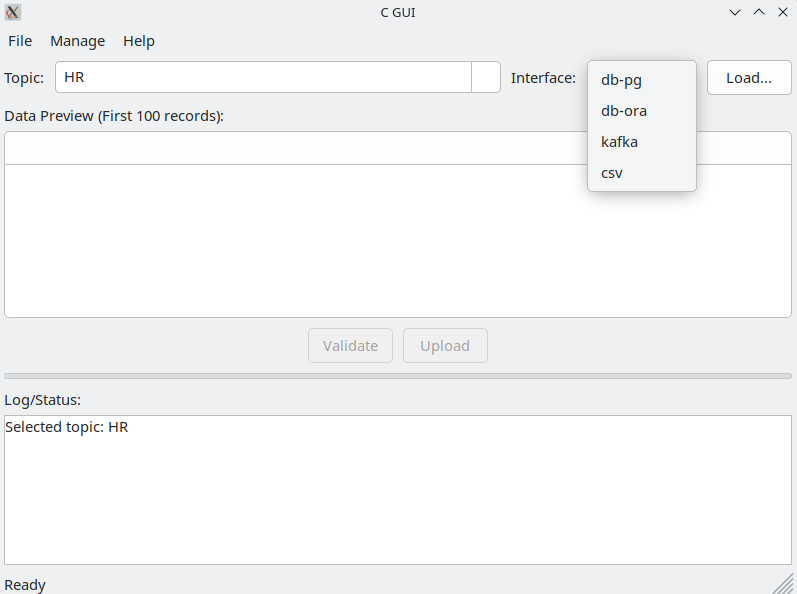
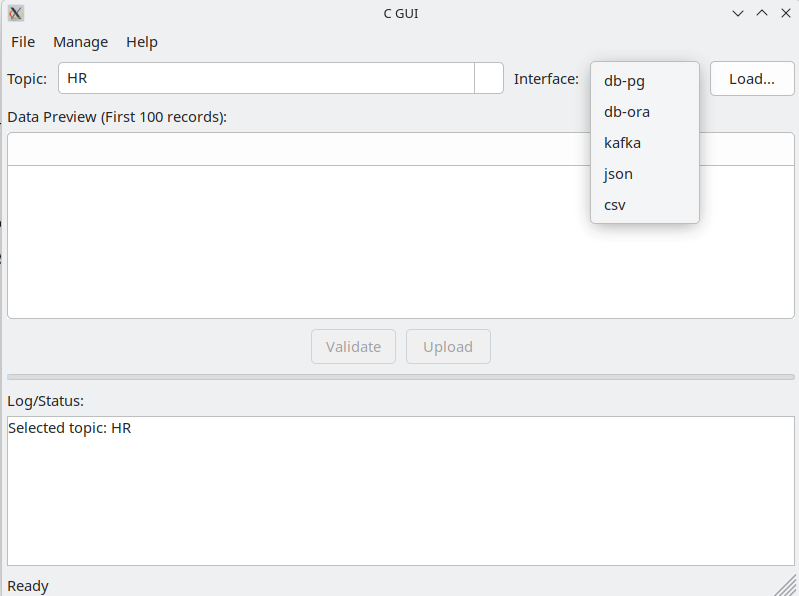
v0.2.0

diff --git a/plugins/hr_json_input/HrJsonInputPlugin.cpp b/plugins/hr_json_input/HrJsonInputPlugin.cpp
@@ -1,0 +1,75 @@
+/**
+ * SPDX-FileComment: JSON Input Plugin implementation for c-gui
+ * SPDX-FileType: SOURCE
+ * SPDX-FileContributor: ZHENG Robert
+ * SPDX-FileCopyrightText: 2026 ZHENG Robert
+ * SPDX-License-Identifier: Apache-2.0
+ *
+ * @file HrJsonInputPlugin.cpp
+ * @brief Implementation of JSON file input plugin.
+ * @version 1.0.0
+ * @date 2026-05-15
+ *
+ * @author ZHENG Robert (robert@hase-zheng.net)
+ * @copyright Copyright (c) 2026 ZHENG Robert
+ * @license Apache-2.0
+ */
+
+#include "HrJsonInputPlugin.hpp"
+#include <fstream>
+
+namespace cgui {
+
+bool HrJsonInputPlugin::initialize(const nlohmann::json& config) {
+    if (!config.contains("file_path")) {
+        return false;
+    }
+
+    m_file_path = config["file_path"].get<std::string>();
+
+    try {
+        std::ifstream file(m_file_path);
+        if (!file.is_open()) {
+            return false;
+        }
+
+        file >> m_data;
+        if (!m_data.is_array()) {
+            return false;
+        }
+
+        m_current_pos = 0;
+        m_initialized = true;
+        return true;
+    } catch (const std::exception&) {
+        return false;
+    }
+}
+
+std::vector<nlohmann::json> HrJsonInputPlugin::fetch_batch(size_t max_records) {
+    std::vector<nlohmann::json> batch;
+    if (!m_initialized) return batch;
+
+    while (batch.size() < max_records && m_current_pos < m_data.size()) {
+        batch.push_back(m_data[m_current_pos++]);
+    }
+
+    return batch;
+}
+
+void HrJsonInputPlugin::shutdown() {
+    m_data.clear();
+    m_initialized = false;
+}
+
+} // namespace cgui
+
+extern "C" {
+    CGUI_PLUGIN_EXPORT cgui::IPlugin* create_plugin() {
+        return new cgui::HrJsonInputPlugin();
+    }
+
+    CGUI_PLUGIN_EXPORT void destroy_plugin(cgui::IPlugin* plugin) {
+        delete plugin;
+    }
+}

diff --git a/plugins/hr_json_input/HrJsonInputPlugin.hpp b/plugins/hr_json_input/HrJsonInputPlugin.hpp
@@ -1,0 +1,52 @@
+/**
+ * SPDX-FileComment: JSON Input Plugin for c-gui
+ * SPDX-FileType: SOURCE
+ * SPDX-FileContributor: ZHENG Robert
+ * SPDX-FileCopyrightText: 2026 ZHENG Robert
+ * SPDX-License-Identifier: Apache-2.0
+ *
+ * @file HrJsonInputPlugin.hpp
+ * @brief Implementation of JSON file input plugin.
+ * @version 1.0.0
+ * @date 2026-05-15
+ *
+ * @author ZHENG Robert (robert@hase-zheng.net)
+ * @copyright Copyright (c) 2026 ZHENG Robert
+ * @license Apache-2.0
+ */
+
+#ifndef CGUI_HR_JSON_INPUT_PLUGIN_HPP
+#define CGUI_HR_JSON_INPUT_PLUGIN_HPP
+
+#include "PluginAPI.hpp"
+#include <string>
+#include <vector>
+
+namespace cgui {
+
+/**
+ * @class HrJsonInputPlugin
+ * @brief Implementation of JSON file input plugin.
+ */
+class HrJsonInputPlugin : public IDataPlugin {
+public:
+    HrJsonInputPlugin() = default;
+    ~HrJsonInputPlugin() override = default;
+
+    bool initialize(const nlohmann::json& config) override;
+    [[nodiscard]] std::string get_topic() const override { return "HR"; }
+    [[nodiscard]] std::string get_version() const override { return "1.0.0"; }
+    [[nodiscard]] std::string get_interface_type() const override { return "json"; }
+    std::vector<nlohmann::json> fetch_batch(size_t max_records) override;
+    void shutdown() override;
+
+private:
+    std::string m_file_path;
+    nlohmann::json m_data;
+    bool m_initialized = false;
+    size_t m_current_pos = 0;
+};
+
+} // namespace cgui
+
+#endif // CGUI_HR_JSON_INPUT_PLUGIN_HPP
